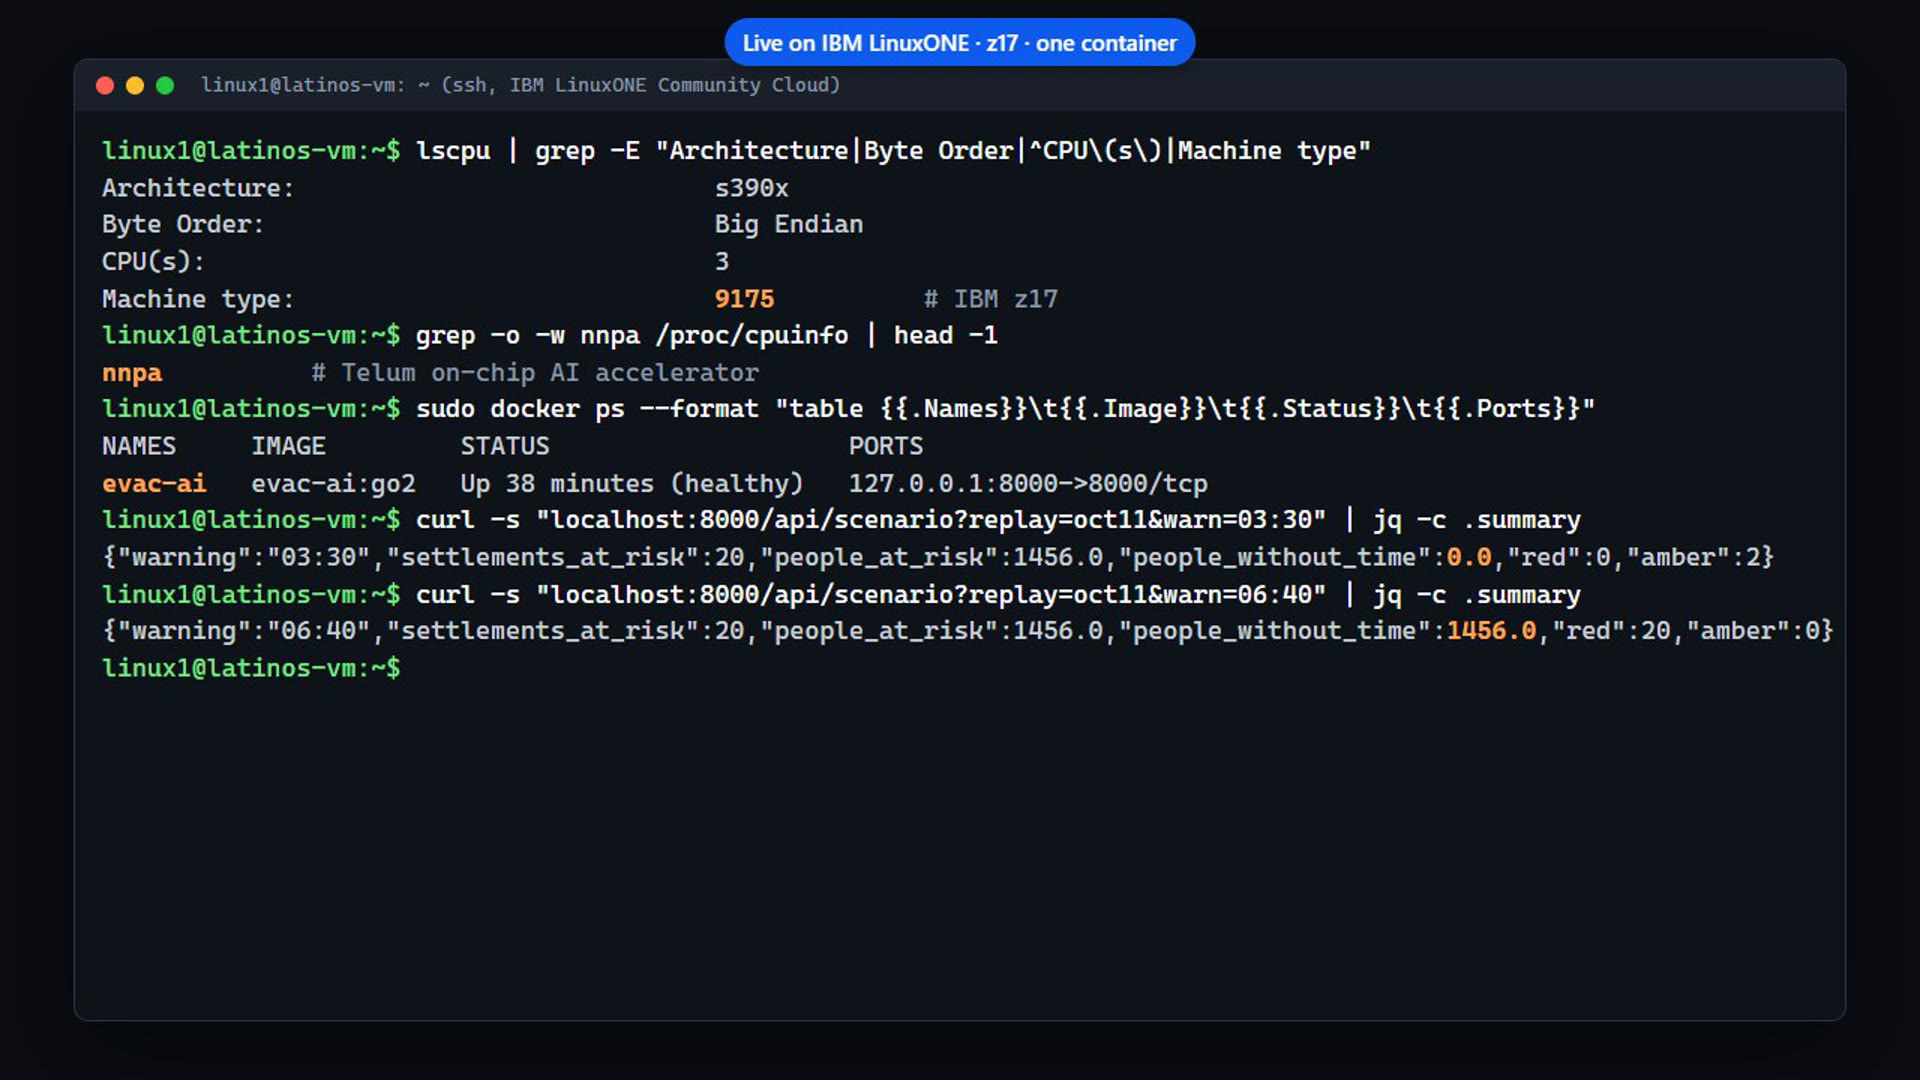
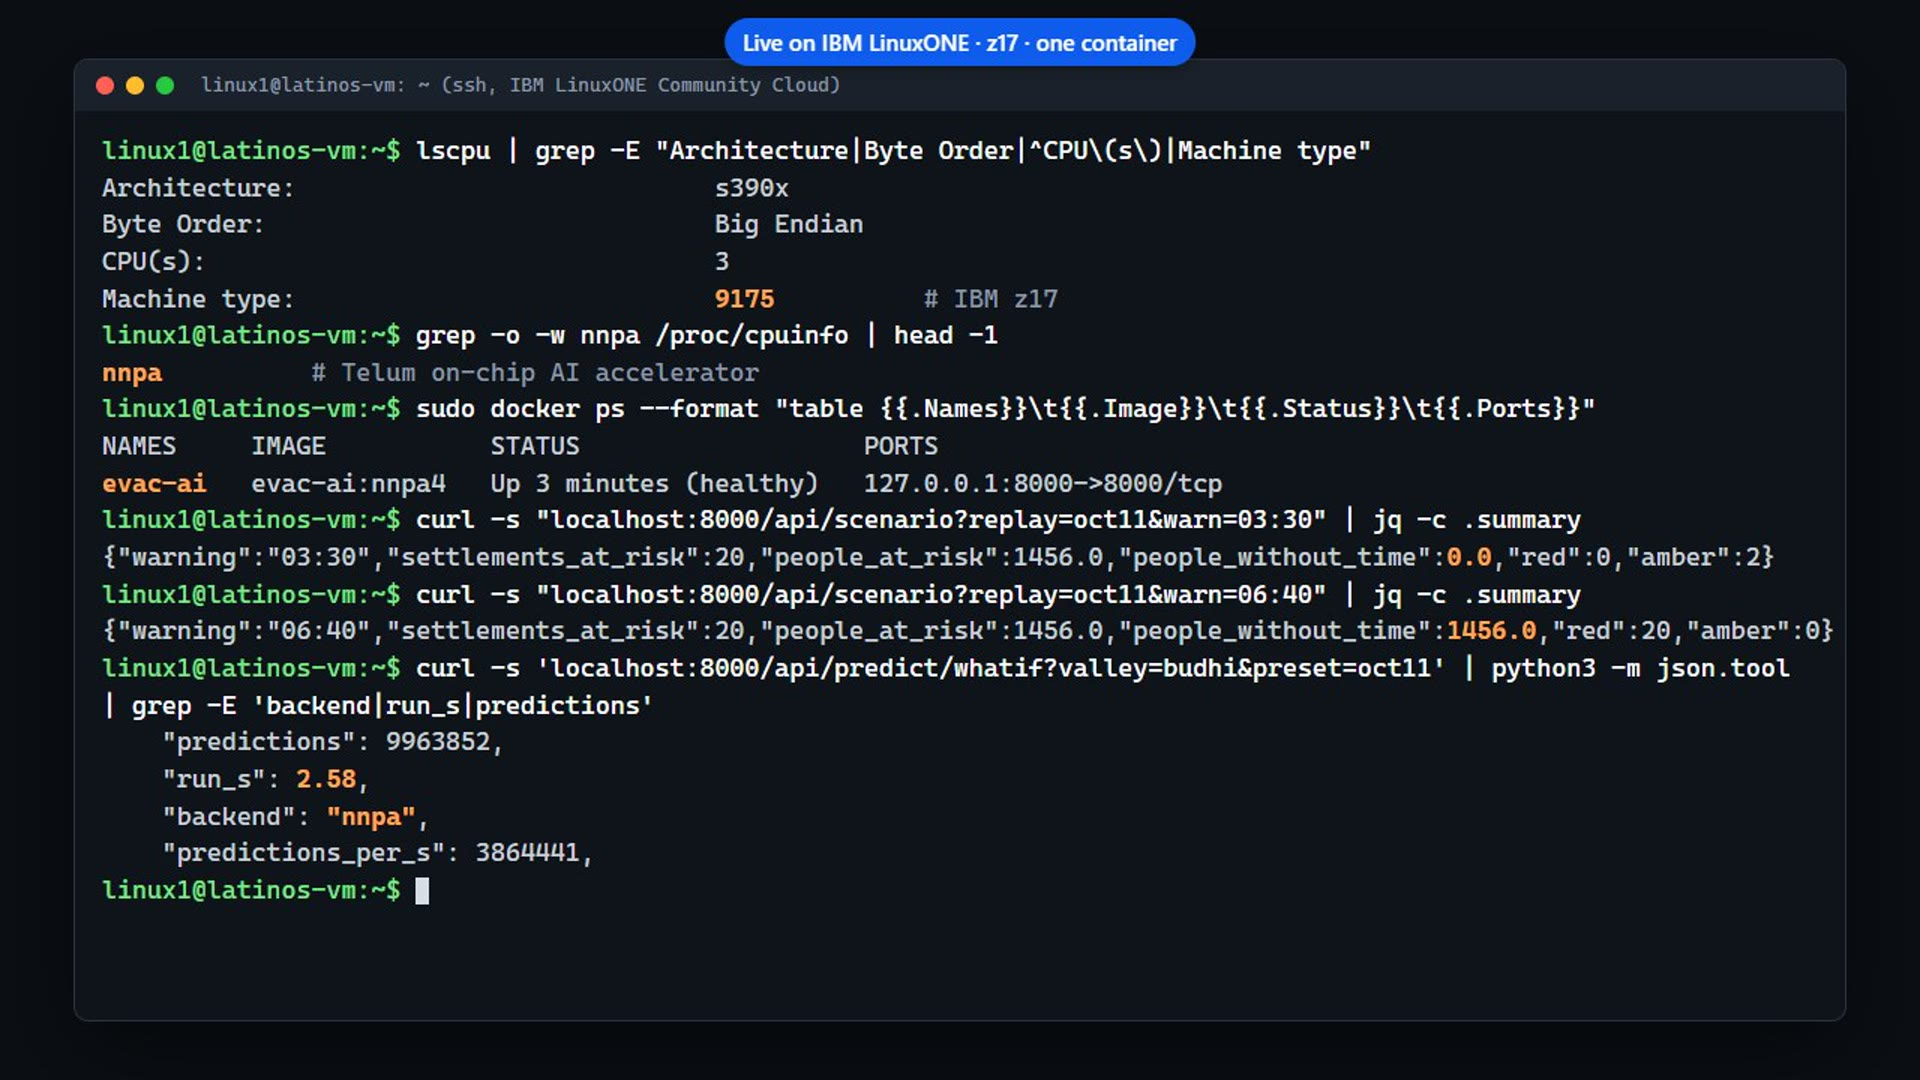
[agent-aayush-go] demo re-cut (landing opening, what-if on Telum, fresh terminal), screenshots S0/S8b/S2, shot list

Changed region(s): [[0.0312, 0.6111, 0.9375, 0.8556], [0.1875, 0.3972, 0.6562, 0.4583]]

diff --git a/docs/submission/video/term.html b/docs/submission/video/term.html
@@ -1,6 +1,6 @@
 <!doctype html>
 <html lang="en"><head><meta charset="utf-8"><title>latinos-vm</title>
-<!-- Replays a real SSH session on our L1CC VM, captured Sat Oct 17 2026 ~20:45 ET (outputs verbatim, IP omitted). -->
+<!-- Replays a real SSH session on our L1CC VM, captured Sat Oct 17 2026 ~21:13 ET (outputs verbatim, IP omitted). -->
 <style>
   html, body { margin: 0; height: 100%; background: #0b0f14; }
   body { display: flex; align-items: center; justify-content: center; font: 17px/1.45 "Cascadia Mono", Consolas, monospace; color: #d6dde6; }
@@ -21,11 +21,13 @@ const steps = [
    'Architecture:                            s390x\nByte Order:                              Big Endian\nCPU(s):                                  3\nMachine type:                            <span class="hl">9175</span>          <span style="color:#8b98a8"># IBM z17</span>'],
   ['grep -o -w nnpa /proc/cpuinfo | head -1', '<span class="hl">nnpa</span>          <span style="color:#8b98a8"># Telum on-chip AI accelerator</span>'],
   ['sudo docker ps --format "table {{.Names}}\\t{{.Image}}\\t{{.Status}}\\t{{.Ports}}"',
-   'NAMES     IMAGE         STATUS                    PORTS\n<span class="hl">evac-ai</span>   evac-ai:go2   Up 38 minutes (healthy)   127.0.0.1:8000->8000/tcp'],
+   'NAMES     IMAGE           STATUS                   PORTS\n<span class="hl">evac-ai</span>   evac-ai:nnpa4   Up 3 minutes (healthy)   127.0.0.1:8000->8000/tcp'],
   ['curl -s "localhost:8000/api/scenario?replay=oct11&warn=03:30" | jq -c .summary',
    '{"warning":"03:30","settlements_at_risk":20,"people_at_risk":1456.0,"people_without_time":<span class="hl">0.0</span>,"red":0,"amber":2}'],
   ['curl -s "localhost:8000/api/scenario?replay=oct11&warn=06:40" | jq -c .summary',
    '{"warning":"06:40","settlements_at_risk":20,"people_at_risk":1456.0,"people_without_time":<span class="hl">1456.0</span>,"red":20,"amber":0}'],
+  ["curl -s 'localhost:8000/api/predict/whatif?valley=budhi&preset=oct11' | python3 -m json.tool | grep -E 'backend|run_s|predictions'",
+   ['    "predictions": 9963852,', '    "run_s": <span class="hl">2.58</span>,', '    "backend": <span class="hl">"nnpa"</span>,', '    "predictions_per_s": 3864441,'].join('\n')],
 ];
 const el = document.getElementById('t'); let html = '';
 const sleep = ms => new Promise(r => setTimeout(r, ms));
@@ -34,13 +36,13 @@ window.done = false;
   await sleep(500);
   for (const [cmd, out] of steps) {
     for (let i = 1; i <= cmd.length; i++) {
-      el.innerHTML = html + P + '<span class="c">' + cmd.slice(0, i).replace(/</g, '&lt;') + '</span><span class="cur"></span>';
-      await sleep(cmd.length > 60 ? 14 : 24);
+      el.innerHTML = html + P + '<span class="c">' + cmd.slice(0, i).replace(/</g, '&lt;') + '</span><span class="cur"></span>'; el.scrollTop = el.scrollHeight;
+      await sleep(cmd.length > 60 ? 9 : 18);
     }
     await sleep(250);
     html += P + '<span class="c">' + cmd.replace(/</g, '&lt;') + '</span>\n<span class="o">' + out + '</span>\n';
-    el.innerHTML = html + P + '<span class="cur"></span>';
-    await sleep(1300);
+    el.innerHTML = html + P + '<span class="cur"></span>'; el.scrollTop = el.scrollHeight;
+    await sleep(1150);
   }
   window.done = true;
 })();

diff --git a/docs/submission/video/record_demo.py b/docs/submission/video/record_demo.py
@@ -203,6 +203,17 @@ def encode(frames, name, pad=None, end=None):
 
 
 # ------------------------------------------------------------------ the demo
+def seg_landing(c):
+    c.device(1280, 720, 1.5)
+    c.go(BASE + "/"); c.until("document.readyState === 'complete'"); time.sleep(1.5)
+    c.js("document.getElementById('__cur').style.opacity = 0")
+    c.start()
+    time.sleep(2.8)
+    c.js("(() => { const h = [...document.querySelectorAll('h2')].find(e => /Open the demo/.test(e.textContent)); window.scrollTo({top: h.getBoundingClientRect().top + scrollY - 40, behavior: 'smooth'}); })()")
+    time.sleep(2.7)
+    return c.stop("0-landing")
+
+
 def seg_terminal(c):
     c.device(1280, 720, 1.5)
     c.go((HERE / "term.html").as_uri()); c.until("document.readyState === 'complete'")
@@ -235,6 +246,20 @@ def seg_planner(c):
     c.chip("Ranked alerts: one SMS each in English and Nepali")
     c.click_sel(".s[data-i='0']", 0.6); time.sleep(5.0)
     return c.stop("2-planner")
+
+
+def seg_whatif(c):
+    c.device(1280, 720, 1.5)
+    c.go(BASE + "/planner"); c.until("typeof DATA !== 'undefined' && DATA && document.querySelectorAll('.trig').length > 1", 120)
+    c.js("document.getElementById('wi').scrollIntoView({block: 'center'})")
+    c.js("void map.setView([28.06, 84.81], 13, {animate: false})"); time.sleep(2.5)
+    c.start("What if the flood is bigger? 100 flood heights on the Telum AI accelerator")
+    time.sleep(1.0)
+    c.click_sel("#wi", 0.7)
+    c.until("document.getElementById('winote').textContent.indexOf('accelerator') >= 0", 60); time.sleep(1.5)
+    c.js("void map.flyTo([28.06, 84.81], 14, {duration: 1.2})"); time.sleep(2.0)
+    x, y = c.center("#winote"); c.move(x, y, 0.6); time.sleep(3.5)
+    return c.stop("2b-whatif")
 
 
 def seg_predict(c):
@@ -295,8 +320,8 @@ def seg_architecture(c):
 
 def main():
     (OUT / "segments").mkdir(parents=True, exist_ok=True)
-    only = sys.argv[1:] or ["terminal", "planner", "predict", "go", "architecture"]
-    segs = {"terminal": seg_terminal, "planner": seg_planner, "predict": seg_predict, "go": seg_go, "architecture": seg_architecture}
+    only = sys.argv[1:] or ["landing", "terminal", "planner", "whatif", "predict", "go", "architecture"]
+    segs = {"landing": seg_landing, "whatif": seg_whatif, "terminal": seg_terminal, "planner": seg_planner, "predict": seg_predict, "go": seg_go, "architecture": seg_architecture}
     for name in only:
         c = Chrome()                                                     # fresh profile per segment
         try:

diff --git a/docs/submission/README.md b/docs/submission/README.md
@@ -7,7 +7,7 @@ Title: `Latinos_IBM Z Datathon 2026 Project` · submit on Hack2Skill by **Sun Oc
 | # | Deliverable | Status | Where |
 |---|---|---|---|
 | 1 | GitHub repo with README: architecture, run steps, libraries & resources, limitations | ready | [`README.md`](../../README.md) |
-| 2 | Video ≤ 3:00 | **45 s motivation (recorded) + 1:31 demo below; humans: add narration + face overlay** | [`video/`](video/) |
+| 2 | Video ≤ 3:00 | **45 s motivation (recorded) + 1:48 demo below; humans: add narration + face overlay** | [`video/`](video/) |
 | 3 | Screenshots of the L1CC instance and the running containers | terminal + app done; **L1CC web console (S1) needs a human** (we don't sign in for you) | [`screenshots/`](screenshots/) |
 | 4 | Architecture flowchart (optional) | ready | [`../architecture.html`](../architecture.html), PNGs in [`../figures/`](../figures/) |
 | 4 | Prototype link (optional) | the app runs behind an SSH tunnel only (no public port); link the repo + video instead | — |
@@ -21,9 +21,11 @@ All are 1920×1080 stills from the demo recording, taken from the running app on
 
 | File | Shows | Judging point |
 |---|---|---|
-| `S2-l1cc-terminal-z17-docker.jpg` | `lscpu` (s390x, machine type 9175 = z17, 3 CPUs), `nnpa` flag, `docker ps` with `evac-ai` healthy on :8000, live API results for 03:30 vs 06:40 | 3 (LinuxONE evidence) |
+| `S0-landing.jpg` | Landing page at `/`: headline, 0 vs 1,456 people without time, 2.6 s on the accelerator | 1, 4 |
+| `S2-l1cc-terminal-z17-docker.jpg` | `lscpu` (s390x, machine type 9175 = z17, 3 CPUs), `nnpa` flag, `docker ps` with `evac-ai:nnpa4` healthy on :8000, 03:30 vs 06:40 results, what-if run with `"backend": "nnpa"` | 3 (LinuxONE evidence) |
 | `S6-planner-0330-warning.jpg` / `S5-planner-0640-warning.jpg` | Who had time to escape: 0 vs 1,456 people without time | 1, 4 |
 | `S8-planner-damage-model.jpg` | AI damage model colours + "N buildings scored on LinuxONE in X s" | 3 |
+| `S8b-planner-whatif-telum.jpg` | What-if map: purple = safe now, floods if bigger; 10 M predictions in 2.58 s on the Telum accelerator | 2, 3 |
 | `S7-planner-alerts-en-ne.jpg` | Ranked alerts, one SMS each in English and Nepali | 1 |
 | `S9-predict-route.jpg` | Resident "Where should I go?": route to safe ground, leave-by | 1, 2 |
 | `S10`–`S13` `go-*.jpg` | Go page: instruction + countdown, Nepali, offline, reached safe ground | 1, 2 |
@@ -34,29 +36,33 @@ screenshot of your own SSH terminal running `sudo docker ps` if you prefer that 
 ## Demo video (`video/`)
 
 - `record_demo.py` records the whole platform with headless Chrome over the SSH tunnel and builds
-  `video/out/demo.mp4` (1920×1080, 30 fps, **no audio**, 90.7 s). Re-run any time:
+  `video/out/demo.mp4` (1920×1080, 30 fps, **no audio**, 108 s). Re-run any time:
   `BASE=http://localhost:18000 python docs/submission/video/record_demo.py` (or pass segment names:
-  `terminal planner predict go architecture`). `out/` is git-ignored; upload the mp4, don't commit it.
+  `landing terminal planner whatif predict go architecture`). `out/` is git-ignored; upload the mp4, don't commit it.
 - Blue chips at the top of the screen name each beat, so the video reads without sound.
 - The phone segment leaves the right third of the frame empty: a good place for the face overlay.
-- Honest-edit notes: the terminal segment replays a real SSH session on the VM captured Sat ~20:45 ET (outputs
+- Honest-edit notes: the terminal segment replays a real SSH session on the VM captured Sat ~21:13 ET (outputs
   verbatim, `term.html`); in the planner, ~10 s of waiting for the new flood's footprint to load is cut (the app's own
-  "computed in N s" label is real); the web segments were recorded against a test container built from the same
-  `main` as the demo.
+  "computed in N s" label is real); landing and what-if were recorded on the live :8000 (`evac-ai:nnpa4`), the other
+  web segments on a test container built from main an hour earlier (same pages, before the what-if card existed).
 
-### Shot list and narration (≈ 1:31; read at a calm pace, ~150 words)
+### Shot list and narration (≈ 1:48; read at a calm pace, ~200 words)
 
 | Time | On screen | Say (suggested) |
 |---|---|---|
-| 0:00 | Terminal on the LinuxONE VM: z17 (9175), `nnpa`, `docker ps`, two `curl` results | "This all runs in one container on an IBM z17 in LinuxONE Community Cloud. Same flood, two warning times: with the villagers' 3:30 phone relay, nobody is left without time; with the 6:40 SMS, all 1,456 people are." |
-| 0:16 | Planner: click 03:30 then 06:40; zoom to the upper valley; drag the wave clock | "This is the officials' planner. The first wave moves down the river, kilometre by kilometre, calibrated on the real October 11 flood." |
-| 0:30 | Damage model colours | "An AI model trained on 2,759 buildings destroyed on August 26 scores every building and bridge, on LinuxONE, in about a second." |
-| 0:36 | Place trigger upstream → new flood computed | "A new report comes in: the river burst here. A new flood, computed in seconds." |
-| 0:42 | #1 settlement: ranked alert, English + Nepali SMS | "Alerts come out ranked by who is hit first. One SMS each, English and Nepali: when, which way to climb, which bridge not to cross." |
-| 0:49 | Where should I go? Tap a riverside house, then move time forward | "For a resident: tap where you are. Closest safe ground, the route, how long you have. Twenty minutes later, the answer changes to hurry." |
-| 1:04 | Go page on a phone: GO UPHILL NOW, countdown, arrow; Nepali | "In a panic nobody reads a map. This page finds you, gives one instruction and a countdown, in Nepali too." |
-| 1:11 | Network off, page still works; reach the green flag → safe | "When the network drops, it still knows your way out." |
-| 1:22 | Architecture figures: container on LinuxONE; Telum accelerator chart | "One container, open-source tools, models trained on real floods. And the z17's on-chip AI accelerator runs our neural network eighteen times faster than its CPU." |
+| 0:00 | Landing page: headline, 0 vs 1,456, 2.6 s; scrolls to the three doors | "Time to Safety: flash-flood warning for Nepal's mountain valleys, for officials, for residents, and for a phone in a panic." |
+| 0:05 | Terminal on the LinuxONE VM: z17 (9175), `nnpa`, `docker ps`, 03:30 vs 06:40, what-if on `nnpa` | "It all runs in one container on an IBM z17. Same flood, two warning times: the villagers' 3:30 relay leaves nobody without time; the 6:40 SMS leaves all 1,456." |
+| 0:22 | Planner: 03:30 then 06:40; zoom; drag the wave clock | "This is the officials' planner. The first wave moves down the river, calibrated on the real October 11 flood." |
+| 0:36 | Damage model colours | "An AI model trained on 2,759 buildings destroyed on August 26 scores every building and bridge in about a second." |
+| 0:42 | Place trigger upstream → new flood computed | "A new report comes in: the river burst here. A new flood, computed in seconds." |
+| 0:48 | #1 settlement: ranked alert, English + Nepali SMS | "Alerts are ranked by who is hit first. One SMS each, English and Nepali." |
+| 0:55 | What-if map: purple fringe, card "0.91 km² … 2.58 s on the Telum accelerator" | "A flood's height is never certain, so we score every spot under a hundred possible floods: 12 million predictions. The z17's on-chip AI accelerator does it in under 3 seconds, 31 times faster than the processor." |
+| 1:06 | Where should I go? Tap a riverside house, then move time forward | "For a resident: tap where you are. Closest safe ground, the route, how long you have." |
+| 1:21 | Go page on a phone: GO UPHILL NOW, countdown, arrow; Nepali | "In a panic nobody reads a map. This page finds you, gives one instruction and a countdown, in Nepali too." |
+| 1:28 | Network off, page still works; reach the green flag → safe | "When the network drops, it still knows your way out." |
+| 1:39 | Architecture figures: container on LinuxONE; Telum chart | "One container, open-source tools, models trained on real floods, on IBM LinuxONE." |
+
+(12 M and 31× are the Trishuli benchmark in `docs/linuxone-ai.md`; the card on screen shows Budhi, 10 M in 2.6 s. Both are real.)
 
 ## Before recording or submitting
 

diff --git a/AGENTS.md b/AGENTS.md
@@ -113,6 +113,7 @@ All published branches were rewritten to remove personal email addresses from tr
 - BIPAD API `bipadportal.gov.np/api/v1/{river,rain,incident,alert}` is public. Its query filters seem to be ignored.
 
 ## Log (newest first; one line per entry)
+- Sat 21:30 [agent-aayush-go] **Demo video re-cut, 108 s**: new opening on the landing page (`/`), terminal re-captured on the live box (nnpa4 + what-if `"backend": "nnpa"`), what-if segment after the planner (recorded read-only on :8000, no swaps). Recorder gained `landing` and `whatif` segments. New screenshots S0 (landing), S8b (what-if), refreshed S2; shot list + narration in docs/submission/README.md. Still needs a human: S1 (L1CC console).
 - Sat 21:13 [agent-aayush-nnpa] **Port 8000 = `evac-ai:nnpa4` @cec93af, swapped Sat 21:11 ET** (per Aayush). DATA = ~/work-agent-aayush-go/repo/data (unchanged). After the swap: /, /planner, /predict, /go, /go-sw.js, /api/predict/options 200; 0 tracebacks; caches warmed (Budhi 10.0 s, Trishuli 53.1 s); what-if Budhi backend=nnpa run_s 2.58 (cached after the first call). :8003 stopped. Rollback: `IMAGE=evac-ai:go2 DATA=$HOME/work-agent-aayush-go/repo/data bash scripts/docker_run.sh`. **Planner URL is now /planner.**
 - Sat 21:10 [agent-aayush-nnpa] swapping 8000 now (per Aayush): evac-ai:go2 -> evac-ai:nnpa4 (= main cec93af: landing at /, planner at /planner, what-if map on the Telum accelerator). Same DATA mount (~/work-agent-aayush-go/repo/data). Rollback tag: evac-ai:go2.
 - Sat 21:08 [agent-aayush-nnpa] **Landing page + what-if map on main** (image `evac-ai:nnpa2` built from this main, tested on :8003: /, /planner, /predict, /go, /go-sw.js 200; what-if backend=nnpa 2.6 s; 0 tracebacks). **Route change: the planner is now `/planner`, `/` is the landing page.** FYI agent-aayush-go: I changed one line in docs/submission/video/record_demo.py (`BASE + "/"` -> `"/planner"`) so your recorder still opens the planner; re-record if you want the landing page as the opening shot. 8000 NOT swapped yet (waiting for Aayush).
